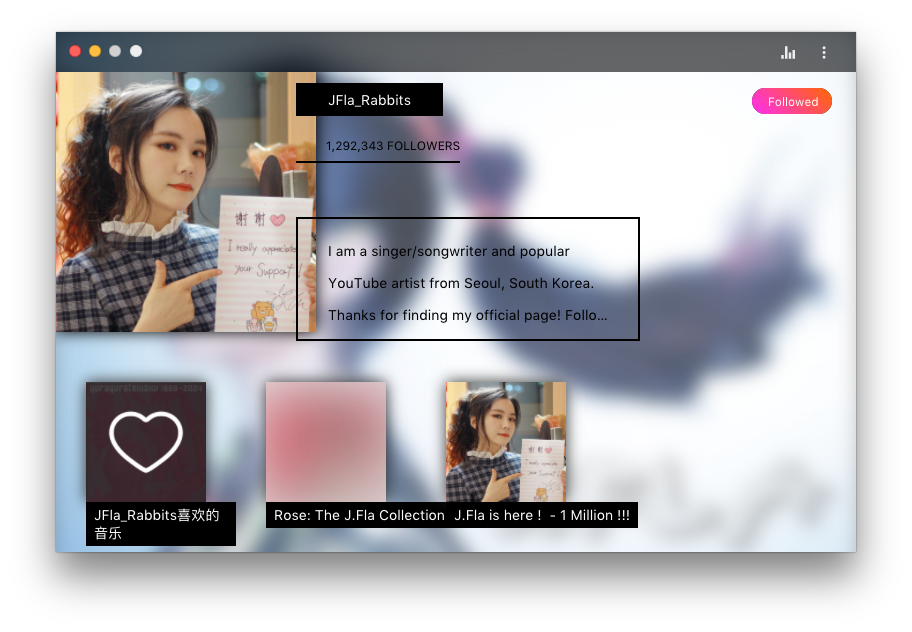
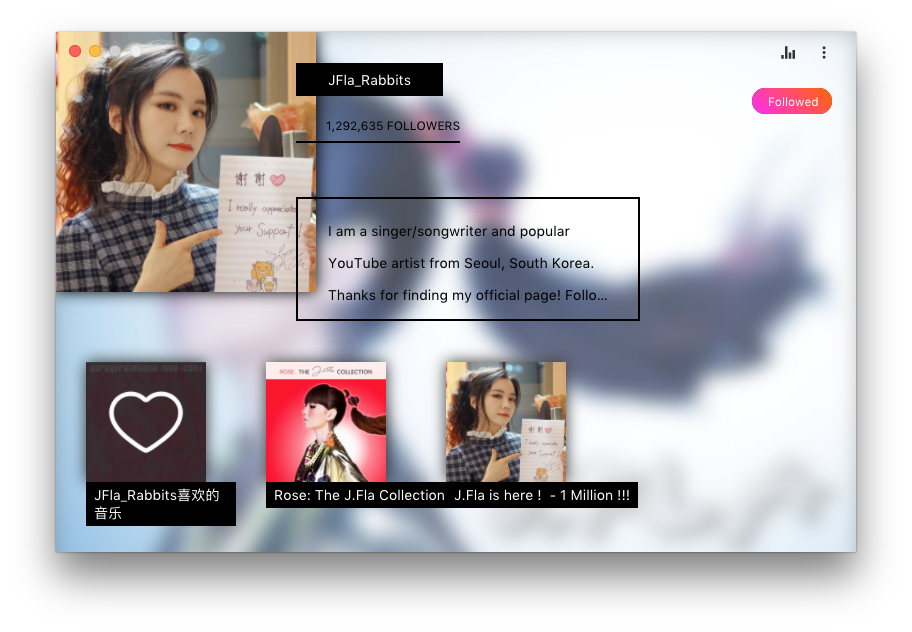
Remove header from user screen

Changed region(s): [[0.0614, 0.0301, 0.9518, 0.8718]]

diff --git a/src/js/pages/User/classes.js b/src/js/pages/User/classes.js
@@ -1,7 +1,6 @@
 
 export default theme => ({
     container: {
-        marginTop: 40,
         height: '100vh',
         background: 'rgba(255, 255, 255, .3)',
     },
@@ -56,6 +55,10 @@ export default theme => ({
 
     followed: {},
 
+    info: {
+        paddingTop: 40,
+    },
+
     username: {
         fontSize: 14,
         transform: 'translateX(-20px)',
@@ -103,6 +106,10 @@ export default theme => ({
             '-webkit-box-orient': 'vertical',
 
         }
+    },
+
+    list: {
+        marginTop: 20,
     },
 
     item: {

diff --git a/src/js/pages/User/index.js b/src/js/pages/User/index.js
@@ -100,6 +100,7 @@ class User extends Component {
             <div className={classes.container}>
                 <Header
                     {...{
+                        transparent: true,
                         showBack: true,
                         showPlaylist: true,
                     }}
